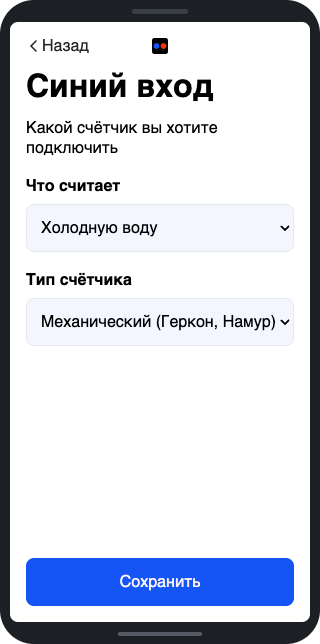
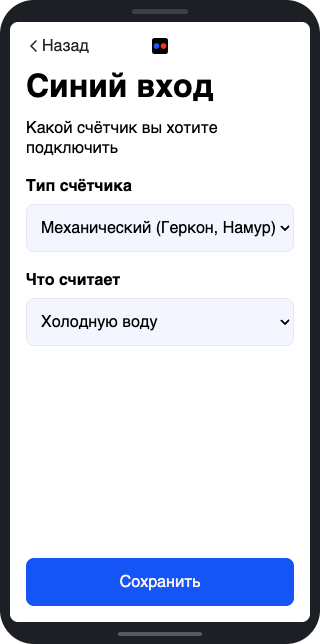
Режим настройки: «Тип счётчика» первым, в документах новое название
Слово «портал» пользователь путает с личным кабинетом, поэтому в документах
для пользователя теперь «режим настройки Ватериуса». Порядок полей формы на
сохранение не влияет: каждое поле обрабатывается отдельно.

Кадры 04, 08 и 20 пересняты с новым порядком, 16 с версией 2.0.55.

diff --git a/ESP8266/data/input_setup.html b/ESP8266/data/input_setup.html
@@ -34,6 +34,18 @@
                         <p class="text">Какой счётчик вы хотите подключить</p>
                         <p class="form-error hd"></p>
                         <div class="f-row">
+                            <label for="counter_type">Тип счётчика</label>
+                            <select class="slct" id="counter_type" name="counter_type" option-value="%counter_type%">
+                              <option selected="" value="0">Механический (Геркон, Намур)</option>
+                              <option value="2">Электронный</option>
+                              <option value="5" %leak_off%>Протечка (нормально-разомкнутый)</option>
+                              <option value="6" %leak_off%>Сигнализация (нормально-замкнутый)</option>
+                              <option value="255">Выключен</option>
+                            </select>
+                            <p class="error hd" id="counter_type-error">Некорректное значение</p>
+                        </div>
+
+                        <div class="f-row">
                             <label for="counter_name">Что считает</label>
                             <select class="slct" id="counter_name" name="counter_name" option-value="%counter_name%">
                               <option selected="" value="0">Холодную воду</option>
@@ -46,18 +58,6 @@
                               <option value="7">Тепло (кВт·ч)</option>
                             </select>
                             <p class="error hd" id="counter_name-error">Некорректное значение</p>
-                        </div>
-
-                        <div class="f-row">
-                            <label for="counter_type">Тип счётчика</label>
-                            <select class="slct" id="counter_type" name="counter_type" option-value="%counter_type%">
-                              <option selected="" value="0">Механический (Геркон, Намур)</option>
-                              <option value="2">Электронный</option>
-                              <option value="5" %leak_off%>Протечка (нормально-разомкнутый)</option>
-                              <option value="6" %leak_off%>Сигнализация (нормально-замкнутый)</option>
-                              <option value="255">Выключен</option>
-                            </select>
-                            <p class="error hd" id="counter_type-error">Некорректное значение</p>
                         </div>
                         <p class="form-error hd"></p>
                     </main>

diff --git a/Alarms.md b/Alarms.md
@@ -148,7 +148,7 @@
 | слабее половины порога | не придёт никогда |
 
 Поэтому ставить порог ниже, чем берёт ваш счётчик, бессмысленно: обычный бытовой счётчик класса
-B вообще не начинает крутиться слабее 30 л/ч. Портал не даст поставить совсем малое число и
+B вообще не начинает крутиться слабее 30 л/ч. Режим настройки Ватериуса не даст поставить совсем малое число и
 подскажет предел.
 
 ### Остановка расхода
@@ -229,8 +229,8 @@ attiny 44 или новее. Показаний, веса импульса и с
 | Откуда | Что делать | Что снимется |
 |---|---|---|
 | **Кнопка на корпусе** | короткое нажатие — то же, что «передать показания сейчас» | все тревоги обоих входов |
-| **Портал, главная страница** | у каждой тревоги своя плашка со ссылкой «Снять тревогу» | только эта тревога на этом входе |
-| **Портал, страница «Тревоги»** | кнопка «Снять тревоги» — она появляется, только когда есть что снимать | все тревоги обоих входов |
+| **Режим настройки Ватериуса, главная страница** | у каждой тревоги своя плашка со ссылкой «Снять тревогу» | только эта тревога на этом входе |
+| **Режим настройки Ватериуса, страница «Тревоги»** | кнопка «Снять тревоги» — она появляется, только когда есть что снимать | все тревоги обоих входов |
 | **Home Assistant** | кнопка «Clear alarms» | все тревоги обоих входов |
 | **Сервер и MQTT** | поле `arst` с маской: биты 0–2 — вход 0, биты 3–5 — вход 1; `63` — всё | что указано в маске |
 | **Смена типа входа** | вход перестал быть тем, чем был | все тревоги этого входа |
@@ -238,7 +238,7 @@ attiny 44 или новее. Показаний, веса импульса и с
 Удалённая команда вступает в силу в том же сеансе, в котором приехала. Нажатие кнопки
 действует сразу: устройство знает своё состояние, ждать конца сеанса незачем.
 
-Точечное снятие есть только в портале — там видно, какая именно тревога поднята. Кнопка и
+Точечное снятие есть только в режиме настройки Ватериуса — там видно, какая именно тревога поднята. Кнопка и
 Home Assistant снимают всё разом: разбираться, что из шести бит поднято, в этих местах негде.
 
 ## Что происходит, когда тревога сработала
@@ -309,7 +309,7 @@ continuous flow», «Alarm: water sensor», «Alarm: signal», «Alarm: consumpt
 Переключатель наверху страницы «Тревоги». Пока он включён, **тревогой становится любой расход**:
 не только прорыв, а вообще любые импульсы счётчика. То, что нужно, когда дома никого нет.
 
-- Включается и выключается откуда угодно: из портала, с сервера, по MQTT, из Home Assistant.
+- Включается и выключается откуда угодно: из режима настройки Ватериуса, с сервера, по MQTT, из Home Assistant.
   Кнопки на устройстве для этого нет — включать режим обычно хочется уже из такси.
 - Вступает в силу со следующего сеанса связи. Если включён режим
   [«только при расходе»](Setup.md#выходить-на-связь-только-при-расходе), а воду никто не открывает,
@@ -346,7 +346,7 @@ continuous flow», «Alarm: water sensor», «Alarm: signal», «Alarm: consumpt
 | Полей порогов нет на странице | прошивка attiny ниже 44: тревоги считать некому |
 | Поля есть, но неактивны | не задан вес импульса — настройте счётчик на странице входа |
 | Пороги заданы, тревог нет вообще | не прошло ни одного сеанса после установки батареек |
-| Была авария, тревоги не было | предыдущая тревога на этом входе не снята: пока она висит, новая не поднимается. Снимите её плашкой на главной странице портала или кнопкой на корпусе |
+| Была авария, тревоги не было | предыдущая тревога на этом входе не снята: пока она висит, новая не поднимается. Снимите её плашкой на главной странице режима настройки Ватериуса или кнопкой на корпусе |
 | Прорыв был, тревоги не было | за полчаса не набралось заданных литров |
 | Капающий кран не ловится | либо он слабее половины порога «не падал ниже», либо счётчик его не видит вовсе (см. ниже) |
 | «Остановка» пришла с опозданием на сутки | это точность периода пробуждения; уменьшите период. В режиме [«только при расходе»](Setup.md#выходить-на-связь-только-при-расходе) опоздание до 3 суток |

diff --git a/Setup.md b/Setup.md
@@ -21,7 +21,7 @@
 
 Закрепите провода. Они не должны шевелиться.
 
-В портале холодная вода это **синий вход**, горячая это **красный вход**.
+В режиме настройки Ватериуса холодная вода это **синий вход**, горячая это **красный вход**.
 
 ## 2. Включите режим настройки
 
@@ -50,13 +50,13 @@
 
 ## 4. Настройте счётчик холодной воды
 
-1. **«Синий вход»**: выберите, что считает вход, и тип счётчика. Обычно менять ничего не надо. Нажмите «Сохранить».
+1. **«Синий вход»**: выберите тип счётчика и что считает вход. Обычно менять ничего не надо. Нажмите «Сохранить».
 2. Спускайте воду в унитазе. Ватериус сам перейдёт дальше. Обычно нужно слить 5-10 литров. Если страница не меняется, проверьте провода.
 3. Введите показания и нажмите «Сохранить». Серийный номер не обязателен.
 
 <table>
 <tr>
-<td align="center"><img src="files/setup/04_blue_setup.png" width="270"><br>Что считает вход</td>
+<td align="center"><img src="files/setup/04_blue_setup.png" width="270"><br>Тип и что считает вход</td>
 <td align="center"><img src="files/setup/05_blue_detect.png" width="270"><br>Проверка импульсов</td>
 <td align="center"><img src="files/setup/06_blue_settings.png" width="270"><br>Показания</td>
 </tr>
@@ -117,7 +117,7 @@
 
 Дальше он будет слать показания сам, раз в заданный период. Первый раз будет погрешность, а затем часы синхронизируются и точность будет до минуты. Если нужно пробуждение в заданное время - нажмите через 2 дня кнопку в это время.
 
-## Что ещё есть в портале
+## Что ещё есть в режиме настройки Ватериуса
 
 Чтобы вернуться в меню, держите кнопку дольше 4 секунд и подключитесь к сети Ватериуса.
 
@@ -181,23 +181,23 @@
 
 Как работает тревога:
 
-**Как быстро.** Разрыв шлейфа подтверждается за 50 мс. Ватериус просыпается в течение секунды и сразу выходит на связь. Сеанс начнётся не раньше чем через 5 минут после прошлого сеанса по тревоге.
+**Как быстро.** Разрыв шлейфа детектируется меньше чем за 1 сек. И ещё через 5-10 секунд тревога будет «в облаке» или вашем локальном сервере. Сеанс начнётся не раньше чем через 5 минут после прошлого сеанса по тревоге.
 
 **Сколько попыток.** До 5 сеансов с паузой 5 минут, всего до 20 минут. Если не вышло, тревога уйдёт с ближайшим плановым сеансом. В режиме «только при расходе» это до 3 суток.
 
-Тревога доставлена, когда её принял любой получатель. На странице «Тревоги» можно отметить, от кого ждать подтверждения.
+**Важно:** Тревога считается доставленной, когда её принял любой получатель (локальный сервер ИЛИ «облако»). На странице «Тревоги» можно отметить, от кого ждать подтверждения.
 
 **Куда.** Всем настроенным получателям сразу:
 
 - **Waterius.ru**: письмо на почту аккаунта, сообщение в привязанные боты Telegram, VK и MAX, плашка в личном кабинете.
 - **Сервер HTTP и MQTT**: в данных сеанса ([Alarms.md](Alarms.md)).
 - **Home Assistant**: датчик `Alarm: signal`.
-- **Портал**: плашка в меню, когда вы войдёте в настройку.
+- **Режим настройки Ватериуса**: плашка в меню, когда вы в него войдёте.
 
 **Как снять.** Сама тревога не гаснет. Пока её не сняли, новое срабатывание нового сообщения не даст.
 
 - Кнопка на корпусе: короткое нажатие снимает все тревоги.
-- Портал: «Снять тревогу» на плашке.
+- Режим настройки Ватериуса: «Снять тревогу» на плашке.
 - Личный кабинет или бот: кнопка снятия. Команда дойдёт в следующем сеансе связи.
 
 После снятия Ватериус выйдет на связь. Если шлейф ещё разорван, тревога сработает снова.

diff --git a/Export.md b/Export.md
@@ -67,7 +67,7 @@
 | http | - | bool | HTTP отправка включена | + | + | - |
 | key | - | str | Уникальный токен | + | - | - |
 | mac | - | str | MAC адрес ESP (ХХ:ХХ:ХХ:ХХ:ХХ:ХХ) | + | + | - |
-| mode | - | int | Режим пробуждения: 1-настройка в портале, 2-авто, 3-по кнопке, 4-внеплановый сеанс по тревоге | + | + | - |
+| mode | - | int | Режим пробуждения: 1-режим настройки Ватериуса, 2-авто, 3-по кнопке, 4-внеплановый сеанс по тревоге | + | + | - |
 | model | - | uint | Модель устройства (0-Classic, 2-Waterius 2) | + | + | - |
 | mqtt | - | bool | брокер mqtt заполнен | + | + | - |
 | mqtt_retain | - | bool | MQTT retain включен | + | + | - |
@@ -226,7 +226,7 @@ waterius/12380568/rssi -69
 | --- | --- | --- |
 | `<корень>` | каждый сеанс, если включено «Автоматическое добавление в Home Assistant» | вся посылка одним JSON — поля перечислены выше |
 | `<корень>/<поле>` | каждый сеанс, если discovery выключен | по одному топику на каждое поле посылки: `<корень>/ch0`, `<корень>/adc1`, `<корень>/alarm_wet0`, `<корень>/ar1` и так далее |
-| `<топик discovery>/<тип>/waterius-<id>/<сущность>/config` | после настройки в портале, после короткого нажатия кнопки и в любом сеансе, где изменились версия прошивки, тип или ресурс входа, топики | конфигурация сущности для Home Assistant; пустое тело удаляет сущность, которая входу больше не нужна |
+| `<топик discovery>/<тип>/waterius-<id>/<сущность>/config` | после выхода из режима настройки Ватериуса, после короткого нажатия кнопки и в любом сеансе, где изменились версия прошивки, тип или ресурс входа, топики | конфигурация сущности для Home Assistant; пустое тело удаляет сущность, которая входу больше не нужна |
 | `<корень>/<параметр>/set` с пустым телом | сразу после того, как принятая команда применена | стирает у брокера retained-команду: иначе она применялась бы в каждом следующем сеансе |
 
 Флаг retain у посылки — «Retain Flag» в настройках MQTT, по умолчанию включён. Конфиги discovery
@@ -246,7 +246,7 @@ Assistant забирает конфиги у брокера при своём с
 сохранит её до пробуждения. Применив команду, устройство стирает её (пустым retained-сообщением
 в тот же топик) и отправляет посылку ещё раз, уже с новыми значениями.
 
-Имена параметров — те же, что в портале; у части есть короткий синоним для Home Assistant,
+Имена параметров — те же, что в режиме настройки Ватериуса; у части есть короткий синоним для Home Assistant,
 и работают оба. Параметры с суффиксом входа `0` или `1` относятся к конкретному входу.
 
 #### Показания и счётчики

diff --git a/README.md b/README.md
@@ -113,18 +113,18 @@
 Ветка dev для pull-request
 Ветка master только для публикации прошивок
 
-**Симулятор портала** — страницы настройки открываются в браузере такими же, как на
+**Симулятор режима настройки Ватериуса** — страницы настройки открываются в браузере такими же, как на
 устройстве, а импульсы, кнопка и Wi-Fi имитируются с пульта. Полезен, чтобы посмотреть
-портал, не собирая прошивку: [simulator/README.md](simulator/README.md).
+режим настройки Ватериуса, не собирая прошивку: [simulator/README.md](simulator/README.md).
 
-**Как устроена прошивка** — [docs/README.md](docs/README.md): счёт импульсов, расписание, отправка, тревоги, портал, OTA.
+**Как устроена прошивка** — [docs/README.md](docs/README.md): счёт импульсов, расписание, отправка, тревоги, режим настройки Ватериуса, OTA.
 
 **Тесты:**
 - бизнес-логика ЕСП на компьютере, без железа: `ESP8266/scripts/run_tests.sh`, attiny — `Attiny85/scripts/run_tests.sh`;
 - стенд на живом железе: настоящий Ватериус, управляемая точка доступа и свой брокер — [Utils/hil/README.md](Utils/hil/README.md).
 
 Из актуальных задач остались сложные:
-- ~~Реализовать запись лога в файл (LittleFS), чтобы можно было скачать (/logs.html)~~ — решено: журнал портала в памяти скачивается со страницы «Логи» ([описание](docs/setup-portal.md#журнал-и-список-сетей))
+- ~~Реализовать запись лога в файл (LittleFS), чтобы можно было скачать (/logs.html)~~ — решено: журнал режима настройки Ватериуса в памяти скачивается со страницы «Логи» ([описание](docs/setup-portal.md#журнал-и-список-сетей))
 - ~~OTA обновления: предложить код прошивки и пример веб-сервера~~ — решено в [2.0.43-beta](https://github.com/dontsovcmc/waterius/releases/tag/v.2.0.43-beta): Ватериус 2 обновляется по воздуху командой сервера или MQTT, из личного кабинета — на [странице обновления](https://account.waterius.ru/update/) ([описание](ESP8266/doc/ota.md))
 
 ### Модификации

diff --git a/Firmware.md b/Firmware.md
@@ -7,11 +7,11 @@
 > | attiny | Что появилось |
 > |---|---|
 > | 39 | Электронный вход ловит короткий импульс (газовый счётчик Гранд, 0,7–1,5 мс) |
-> | 40 | Портал сообщает, что ЕСП перезагрузилась при живом питании |
+> | 40 | Режим настройки Ватериуса сообщает, что ЕСП перезагрузилась при живом питании |
 > | 41 | [Тревоги](Alarms.md) (функции экспериментальные) |
 > | 43 | Смена типа входа применяется сразу и снимает тревогу этого входа |
 > | 44 | Типы входа «датчик протечки»: вход читается АЦП, тревога — от сопротивления между электродами до сотен килоом |
-> | 45 | Ватериус 2: тревога не снимается долгим нажатием кнопки и доживает до портала (нужна ЕСП 2.0.51 и новее) |
+> | 45 | Ватериус 2: тревога не снимается долгим нажатием кнопки и доживает до режима настройки Ватериуса (нужна ЕСП 2.0.51 и новее) |
 > | 46 | Такт опроса входов в сеансе отмеряется часами: замыкания около 350 мс больше не теряются |
 > | 47 | Электронный вход без мёртвого времени — проверен на 20 импульсах в секунду; сброс к заводским обнуляет показания |
 
@@ -254,7 +254,7 @@ upload_flags =
 
 5. Подключите USB-TTL к ESP8266, замкнув **GPIO0** на **GND**.
 
-6. Выполните прошивку. В файловой системе лежат страницы портала настройки, поэтому нужны оба
+6. Выполните прошивку. В файловой системе лежат страницы режима настройки Ватериуса, поэтому нужны оба
    файла, и писать их надо одной командой: после записи прошивки ЕСП перезагружается, и
    вторая команда к ней уже не подключится.
 

diff --git a/English.md b/English.md
@@ -118,18 +118,18 @@ The repository also has a single-layer board for toner transfer.
 The dev branch is for pull requests.
 The master branch is only for publishing firmware.
 
-**Portal simulator** — the setup pages open in a browser just as on the device, while pulses,
-the button and Wi-Fi are simulated from a control panel. Handy for looking at the portal without
+**Setup mode simulator** — the setup pages open in a browser just as on the device, while pulses,
+the button and Wi-Fi are simulated from a control panel. Handy for looking at the setup mode without
 building the firmware: [simulator/README.md](simulator/README.md).
 
-**How the firmware works** — [docs/README.md](docs/README.md): pulse counting, scheduling, sending, alarms, portal, OTA.
+**How the firmware works** — [docs/README.md](docs/README.md): pulse counting, scheduling, sending, alarms, setup mode, OTA.
 
 **Tests:**
 - ESP business logic on a computer, no hardware needed: `ESP8266/scripts/run_tests.sh`, attiny — `Attiny85/scripts/run_tests.sh`;
 - hardware-in-the-loop bench: a real Waterius, a controlled access point and its own broker — [Utils/hil/README.md](Utils/hil/README.md).
 
 Hard tasks still open:
-- ~~Write the log to a file (LittleFS) so it can be downloaded (/logs.html)~~ — done: the portal journal is kept in memory and downloaded from the "Логи" page ([description](docs/setup-portal.md#журнал-и-список-сетей))
+- ~~Write the log to a file (LittleFS) so it can be downloaded (/logs.html)~~ — done: the setup mode journal is kept in memory and downloaded from the "Логи" page ([description](docs/setup-portal.md#журнал-и-список-сетей))
 - ~~OTA updates: propose firmware code and a sample web server~~ — done in [2.0.43-beta](https://github.com/dontsovcmc/waterius/releases/tag/v.2.0.43-beta): Waterius 2 updates over the air on a command from the server or MQTT, from the personal account on the [update page](https://account.waterius.ru/update/) ([description](ESP8266/doc/ota.md))
 
 ### Modifications

diff --git a/Home_Assistant_setup.md b/Home_Assistant_setup.md
@@ -64,7 +64,7 @@
 
 Ватериус спит и не слышит перезапуска Home Assistant, поэтому описания сущностей он
 публикует с флагом retain всегда, даже при выключенном «Retain Flag»: HA забирает их у
-брокера при старте. Заново описания уходят после настройки в портале, по короткому
+брокера при старте. Заново описания уходят после выхода из режима настройки Ватериуса, по короткому
 нажатию кнопки и сами — в первом же сеансе после обновления прошивки или смены типа или
 ресурса входа, в том числе из Home Assistant. Сущности, которые входу больше не нужны
 (например, показания у входа, ставшего датчиком протечки), Ватериус удаляет из HA сам.

diff --git a/FAQ.md b/FAQ.md
@@ -42,7 +42,7 @@
 1. Так задумано: ни одна тревога не снимается сама. Высохший датчик, закрытый кран и упавший
 расход состояние не меняют — иначе ночную протечку, высохшую к утру, никто бы не заметил.
 2. Снять: коротким нажатием кнопки на корпусе, кнопкой «Снять тревоги» на странице «Тревоги»
-в портале, из Home Assistant или командой с сервера. Подробнее — [Alarms.md](Alarms.md).
+в режиме настройки Ватериуса, из Home Assistant или командой с сервера. Подробнее — [Alarms.md](Alarms.md).
 
 После замены батареек тревоги молчат
 1. Пороги тревог живут в оперативной памяти attiny и присылаются заново каждым сеансом, так
